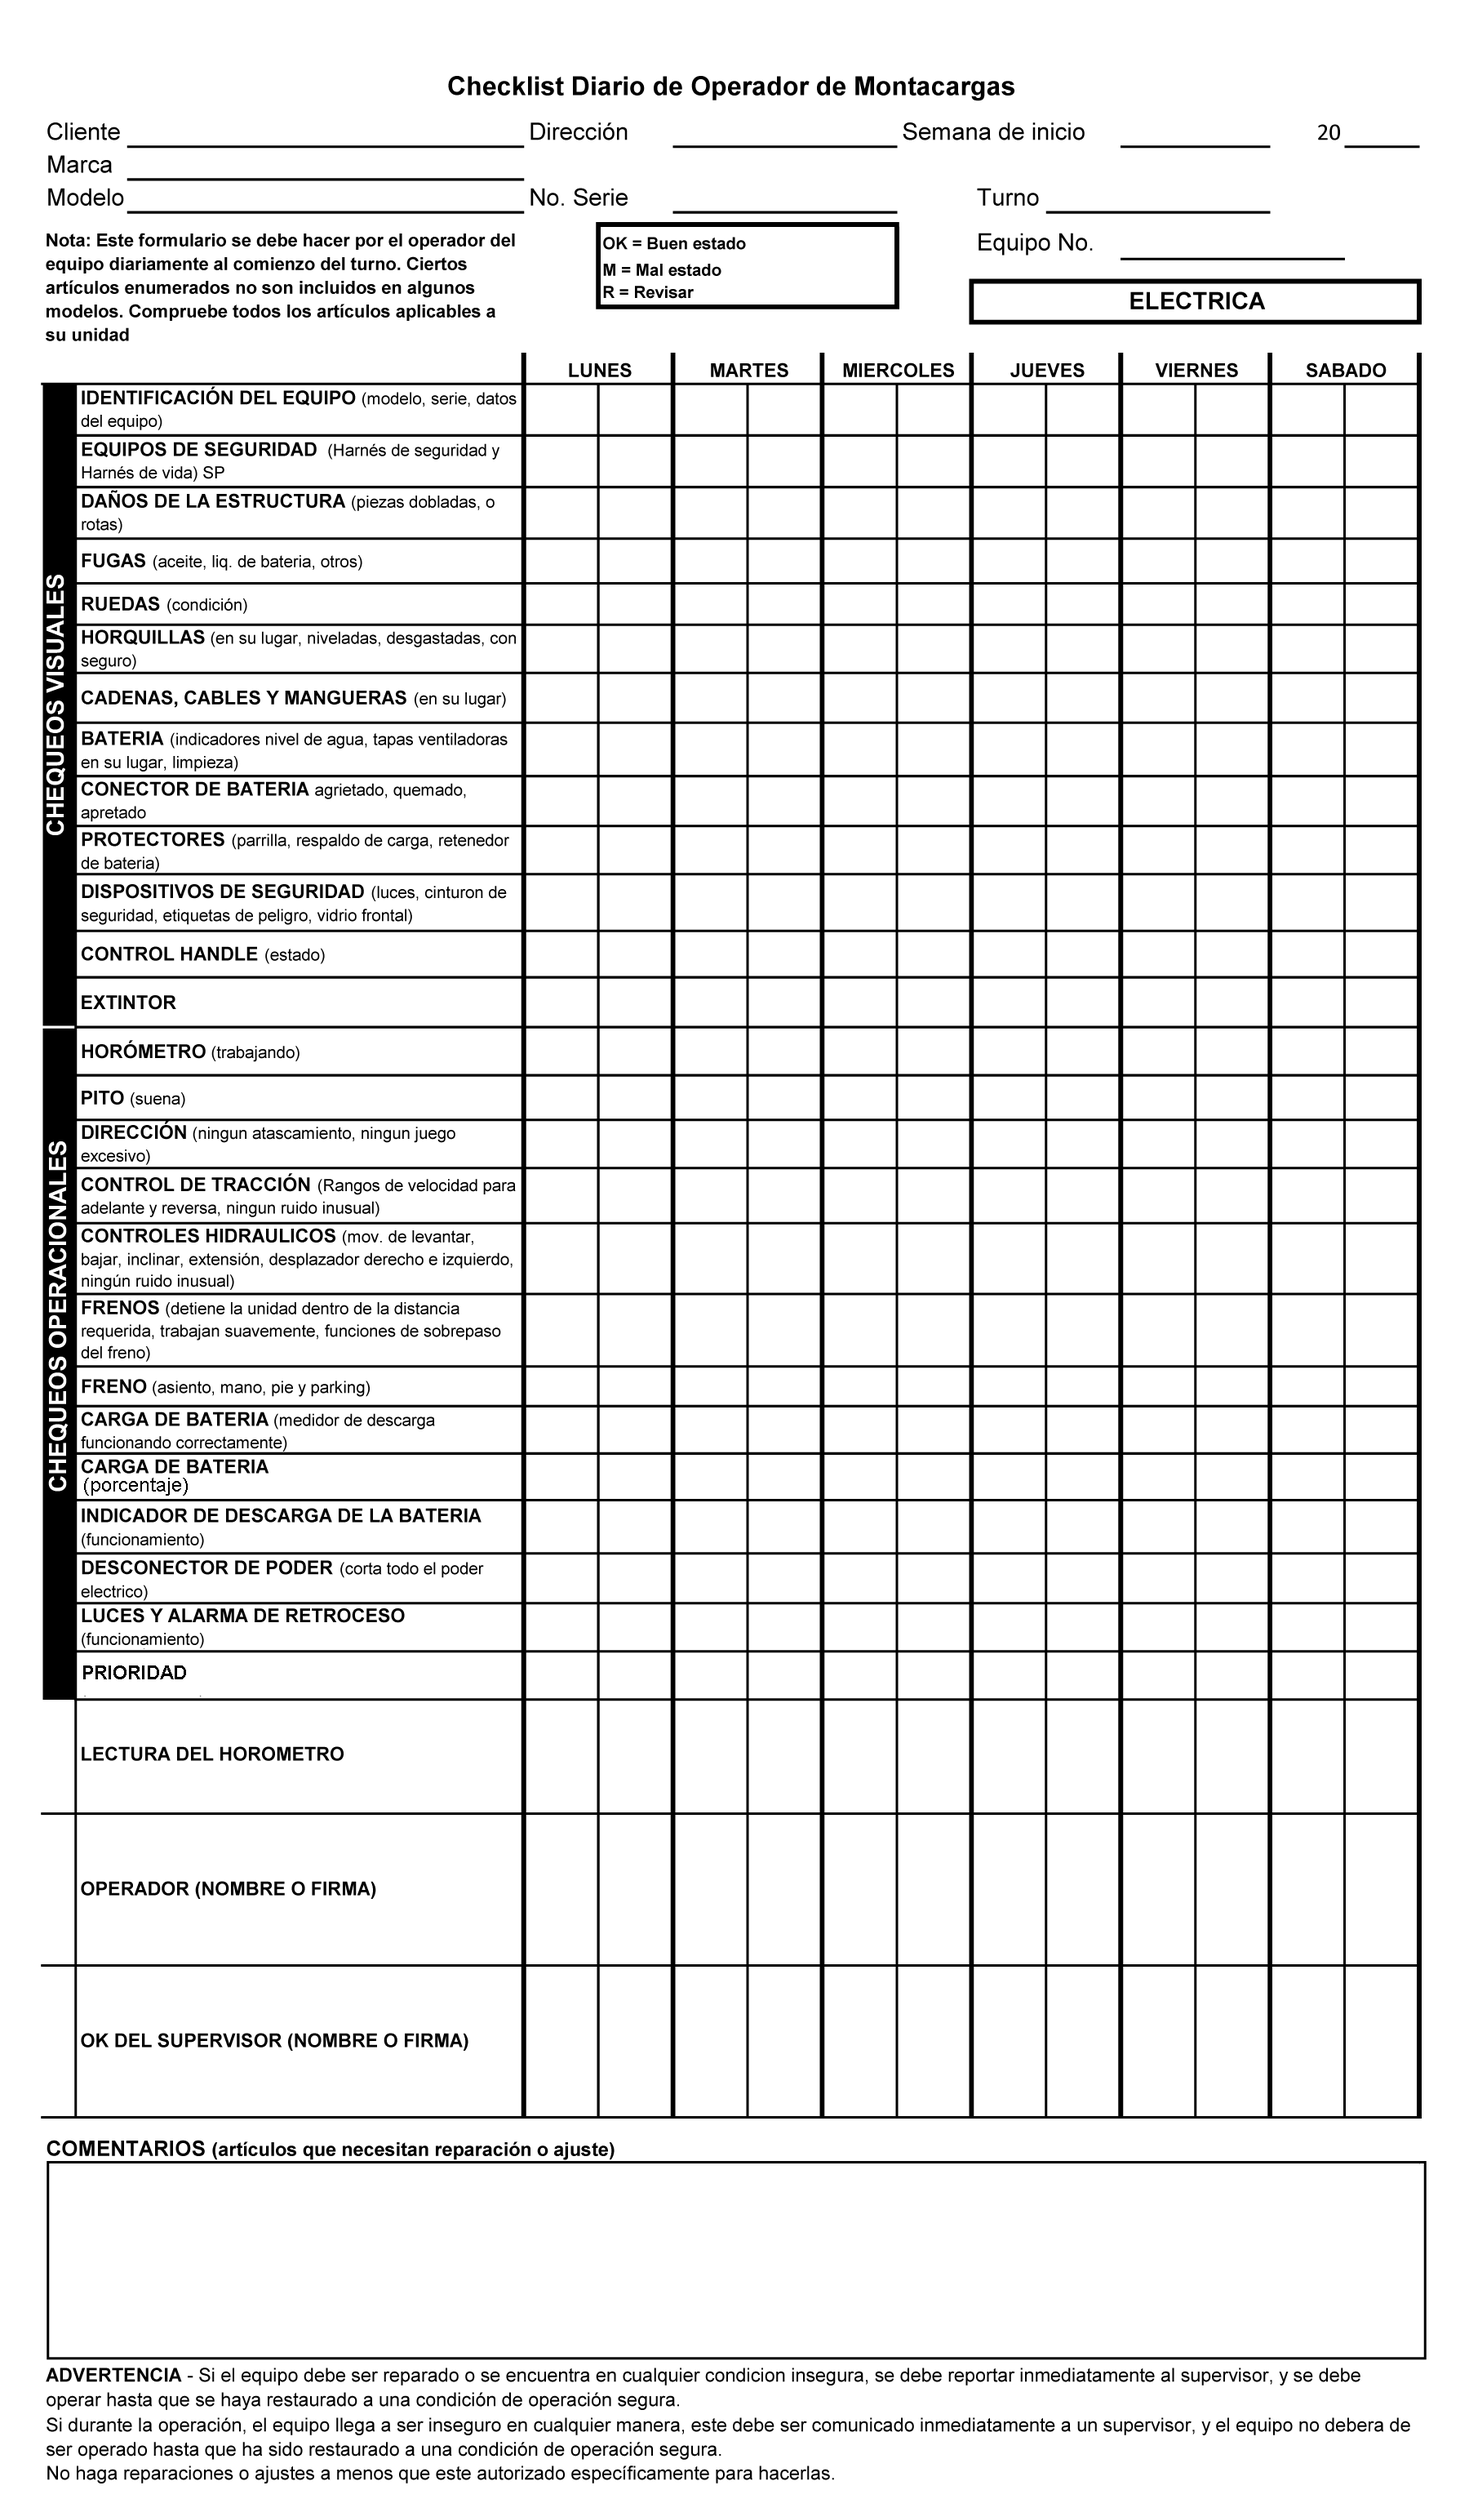
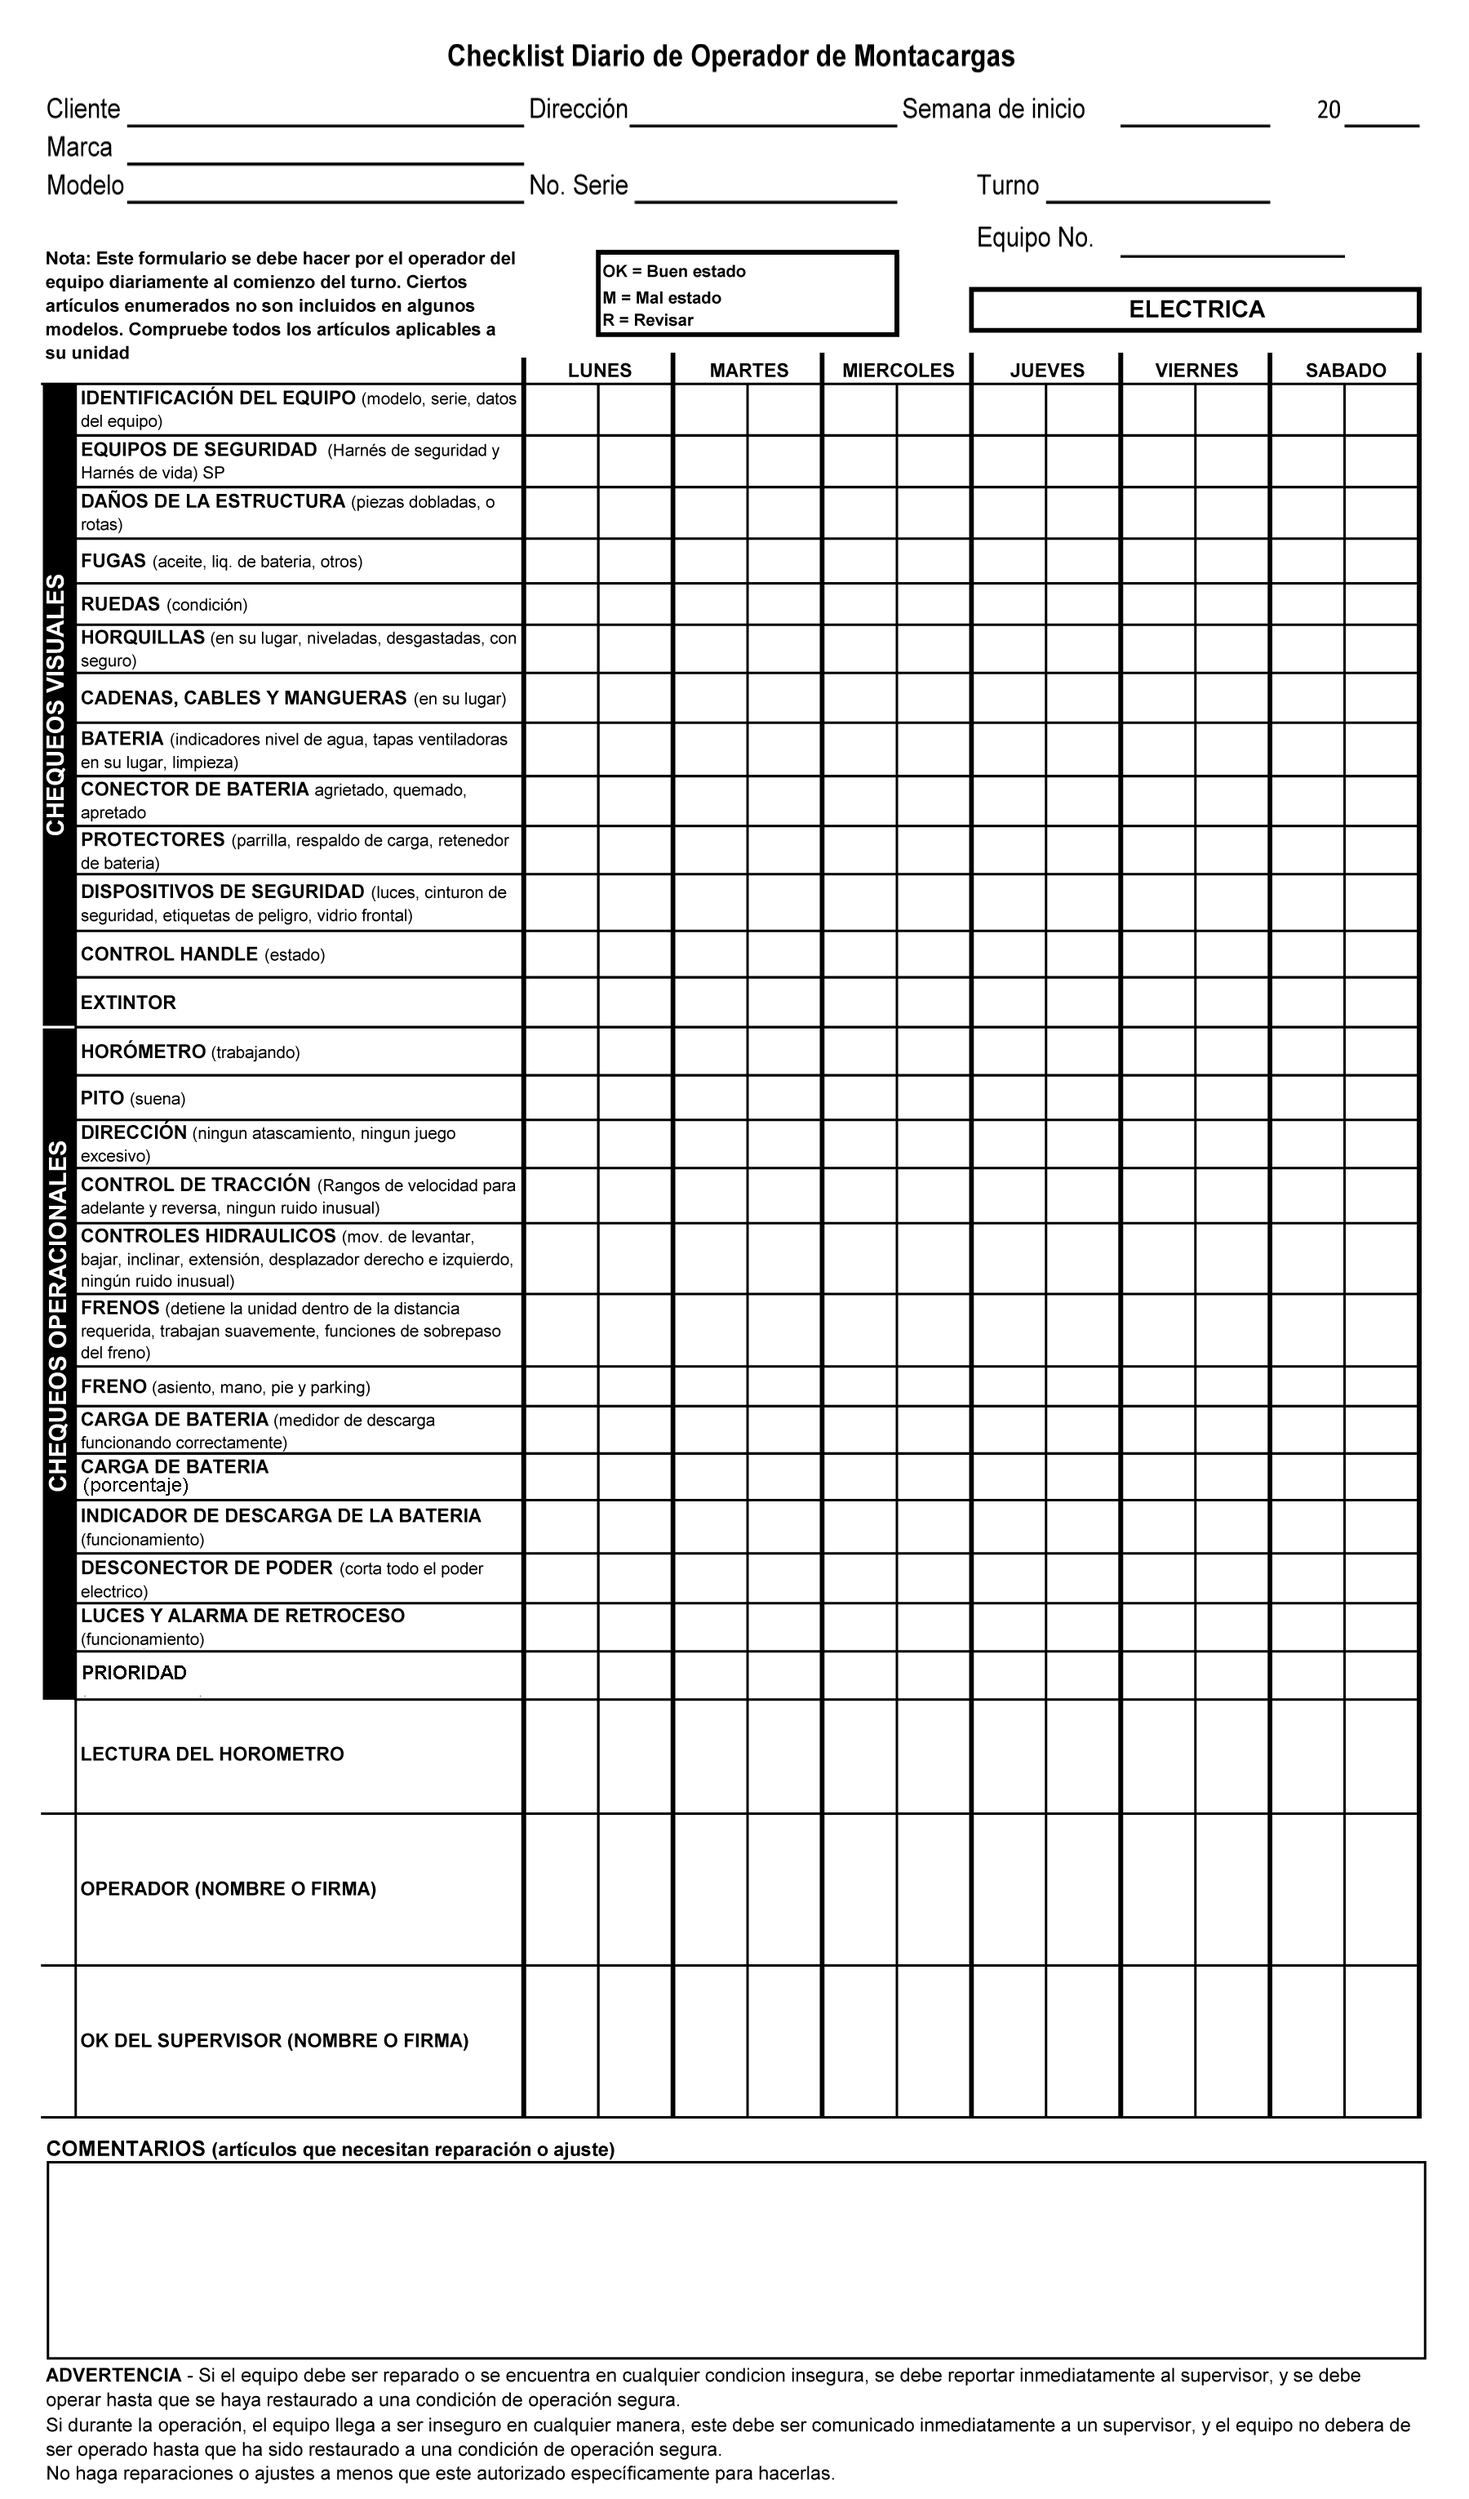
daily check png

Changed region(s): [[0.0311, 0.0, 0.9644, 0.1552], [0.9022, 0.031, 0.9333, 0.0621]]

diff --git a/app/FormularioRegistro.php b/app/FormularioRegistro.php
@@ -577,7 +577,7 @@ class FormularioRegistro extends BaseModel
         $pdf->SetTextColor(50, 50, 50);
 
         $x = 20;
-        $y = 15;
+        $y = 12;
         $pdf->SetXY($x, $y);
         $pdf->Cell(55, 6, $formularioRegistro->equipo()->cliente->nombre, 0, 0, 'L');
         $x = $pdf->GetX()+17;
@@ -593,16 +593,19 @@ class FormularioRegistro extends BaseModel
         $pdf->SetXY($x, $y);
         $pdf->Cell(6, 6, "21 ", 0, 0, 'L');
         $x = 20;
-        $y = 19;
+        $y = 16;
         $pdf->SetXY($x, $y);
         $pdf->Cell(40, 8,$formularioRegistro->equipo()->marca()->first()->display_name, 0, 0, 'L');
         $y = $pdf->GetY()+5;
         $pdf->SetXY($x, $y);
         $pdf->Cell(40, 8, $formularioRegistro->equipo()->modelo, 0, 0, 'L');
         $x = $pdf->GetX()+35;
+        $y = $pdf->GetY()+1;
+        $pdf->SetXY($x, $y);
         $pdf->SetX($x);
+        
         $pdf->Cell(30, 6, $formularioRegistro->equipo()->serie, 0, 0, 'L');
-        $pdf->SetXY(160,30);
+        $pdf->SetXY(160,29);
         $pdf->Cell(10, 6, $formularioRegistro->equipo()->numero_parte, 0, 0, 'L');
         $matrizx=array(77,89,101,111,122,
                        132,143,155,166,175,
